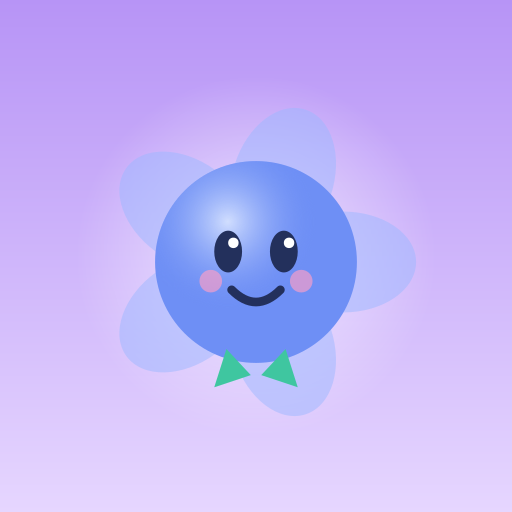
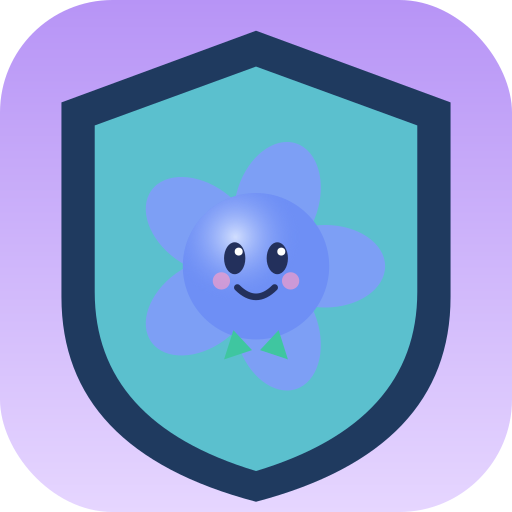
Refine grown-up welcome, split links, demo-vs-app wording, org email

diff --git a/index.html b/index.html
@@ -475,11 +475,11 @@ renderers.disclaimer=()=>{screen.innerHTML=`<div class="pad fade" style="padding
   <div style="text-align:center"><div class="duo">${pip('',96)}</div>
   <div class="step-title" style="font-size:27px;margin-top:8px">Welcome to Brave Battle</div></div>
   <div class="card" style="margin-top:14px">
-    <p style="font-weight:700;line-height:1.5">Brave Battle is a tester app from <b>Brave Kids United</b>, a nonprofit helping kids build confidence and coping skills.</p>
+    <p style="font-weight:700;line-height:1.5">This is a demo of <b>Brave Battle</b>, from Brave Kids United, a nonprofit helping kids build confidence and coping skills.</p>
     <p style="font-weight:800;margin-top:12px">Before you start, please know:</p>
     <p style="line-height:1.6;margin-top:4px">• This app is a support tool — it is not a substitute for therapy or medical care.<br>
     • If your child is in crisis, please call or text <a href="tel:988" style="color:var(--grape);font-weight:800">988</a> (Suicide &amp; Crisis Lifeline).<br>
-    • This is a tester version. We will check in with you for feedback.</p>
+    • This is an early demo, and we’ll check in with you for feedback.</p>
   </div>
   <button class="btn" onclick="acknowledge()">I understand ›</button>
   <button class="btn ghost" onclick="openCrisis()">Crisis Resources</button>
@@ -500,11 +500,11 @@ renderers.crisis=()=>{screen.innerHTML=`${topbar()}<div class="pad fade"><span c
 /* ---- About / Parent Info (reachable from home; ungated) ---- */
 renderers.about=()=>{screen.innerHTML=`${topbar()}<div class="pad fade legal"><span class="step-tag">ABOUT &amp; PARENT INFO 💜</span>
   <div class="step-title">About Brave Battle</div>
-  <div class="card" style="background:linear-gradient(160deg,#f6e9ff,#fff6df)"><h3>Battle Big Feelings, Together</h3>
+  <div class="card" style="background:linear-gradient(160deg,#f6e9ff,#fff6df)"><div style="font-size:11px;font-weight:800;letter-spacing:.12em;color:var(--grape);text-transform:uppercase;margin-bottom:4px">Our Mission Statement</div><h3>Battle Big Feelings, Together</h3>
     <p>Helping children regulate their emotions, build confidence, and find coping skills that work for them — through tools they actually want to use, that capture real data from real moments to inform families, therapists, and kids together. Made accessible to every family who needs it.</p></div>
   <div class="card"><h3>About Brave Battle</h3>
-    <p>Brave Battle is a tester app provided by Brave Kids United Inc, an Indiana nonprofit corporation. It is designed to help children practice coping skills and build confidence when working through everyday emotional challenges such as anxiety and worry.</p>
-    <p style="margin-top:8px">This is an early tester version. The real app, when fully launched, will include personalized features, character design, faith-level options, parent and therapist tools, and much more.</p></div>
+    <p>This is a demo of <b>Brave Battle</b>, provided by Brave Kids United Inc, an Indiana nonprofit corporation. Brave Battle is designed to help children practice coping skills and build confidence when working through everyday emotional challenges such as anxiety and worry.</p>
+    <p style="margin-top:8px">This demo is an early preview. The full Brave Battle app, when it launches, will include personalized features, character design, faith-level options, parent and therapist tools, and much more.</p></div>
   <div class="card"><h3>Important — Not a Substitute for Care</h3>
     <p>Brave Battle is a support tool, not a replacement for professional care. It does not diagnose, treat, or cure any medical or psychological condition.</p>
     <p style="margin-top:8px">This app is not designed for use in crisis situations or for conditions that require professional treatment, including (but not limited to) trauma, eating disorders, severe depression, suicidal thoughts, self-harm, psychosis, or substance abuse. For any of these, please contact a licensed professional immediately.</p>
@@ -512,7 +512,7 @@ renderers.about=()=>{screen.innerHTML=`${topbar()}<div class="pad fade legal"><s
     <p style="margin-top:8px"><b>If your child is in crisis:</b><br>• Call or text <a href="tel:988" style="color:var(--grape);font-weight:800">988</a> (Suicide &amp; Crisis Lifeline)<br>• Text HOME to <a href="sms:741741" style="color:var(--grape);font-weight:800">741741</a> (Crisis Text Line)<br>• Call <a href="tel:911" style="color:var(--grape);font-weight:800">911</a> for emergencies</p></div>
   <div class="card"><h3>Your Data</h3>
     <p>This is a <b>demo (tester) version</b> of Brave Battle, and it is built to keep your child's information on the device.</p>
-    <p style="margin-top:8px">• <b>No server, by design — for this demo.</b> This tester version does not send anything anywhere. There is no account, no login, and no Brave Kids United Inc server collecting information — so nothing your child does in this demo travels back to us. We never receive it, and we can't see it.<br>
+    <p style="margin-top:8px">• <b>No server, by design — for this demo.</b> This demo does not send anything anywhere. There is no account, no login, and no Brave Kids United Inc server collecting information — so nothing your child does in this demo travels back to us. We never receive it, and we can't see it.<br>
     • <b>Saved on this device only.</b> To make the app work, it stores a few things right on the device: their points and rewards, and anything they type in the app (like a gratitude note or a worry they check). This stays on the device and is visible only in the Grown-Ups area on that same device.<br>
     • <b>No personal info requested.</b> No emails, no ages, no contact information.<br>
     • <b>You're in control.</b> To erase everything, tap "Reset all data" in the Grown-Ups section, or clear this app's data from the device.</p>
@@ -520,7 +520,17 @@ renderers.about=()=>{screen.innerHTML=`${topbar()}<div class="pad fade legal"><s
     <p style="margin-top:8px"><b>Looking ahead:</b> the full version of Brave Battle (still in development) is planned to include online features such as saved accounts, personalization, and parent and therapist tools, which will use a server. That future version will come with its own, updated privacy information before it is used — this notice covers the demo only.</p>
     <p style="margin-top:8px">Your feedback comes through talking with us directly, not through the app.</p></div>
   <div class="card"><h3>Contact / Feedback</h3>
-    <p>We'd love to hear from you. Reach Christina at <a href="mailto:[email redacted]" style="color:var(--grape);font-weight:800">[email redacted]</a> with any feedback, questions, or concerns.</p></div>
+    <p>We'd love to hear from you. Reach Christina at <a href="mailto:[email redacted]" style="color:var(--grape);font-weight:800">[email redacted]</a> with any feedback, questions, or concerns.</p></div>
+  <div class="card" style="background:linear-gradient(160deg,#eaf6f8,#fff6df)"><h3>Stay connected 💛</h3>
+    <p>Brave Battle is one small piece of a bigger mission at <b>Brave Kids United Inc</b> — building warm, effective tools for kids working through big feelings.</p>
+    <p style="margin-top:8px">If you'd like to follow along as things develop — new features, the full app, and ways to get involved — we'd love to stay in touch. This is entirely optional, and it happens on our sign-up page, not inside this app.</p>
+    <a href="https://d75f5bf5.sibforms.com/serve/MUIFAFurrO-nDLnu0HvfUQxhFpyN5bpQfaa0rDWL7shGLt0_JJJfXFc63mrpkJJXhxViZmYc90WOvEtjixj10mYGFFzKP0aQm-G_MyKwOsTz6tYnHsu5LdxrgqxBFuYDpXhuPAkYdHAEojfWcPJ8c99RBqpRAUJlbmuSeRBEyL6mlwf3lrwi9SWKq3TWrr5AfGvWuq-5xb3YnTWtGQ==" target="_blank" rel="noopener" style="display:block;text-align:center;background:var(--grape);color:#fff;font-weight:800;padding:13px;border-radius:14px;text-decoration:none;margin-top:12px">✉️ Keep me in the loop</a>
+    <p style="margin-top:14px"><b>Want to get more involved?</b> As a growing nonprofit, we\u2019re building our team — and we\u2019re especially looking for:</p>
+    <p style="margin-top:6px">• <b>Board members</b> — people who believe in the mission and want to help guide and grow the organization.<br>
+    • <b>A clinician advisory board</b> — therapists, counselors, and child mental-health professionals to help shape the tools and keep them clinically sound.</p>
+    <p style="margin-top:8px">Have questions, or want to get involved? Email Christina at <a href="mailto:[email redacted]" style="color:var(--grape);font-weight:800">[email redacted]</a>.</p>
+    <p style="margin-top:12px">Learn more at <b>bravekidsunited.org</b> <span style="color:var(--ink-soft);font-weight:700">(coming soon)</span></p></div>
+
   <div class="card"><h3>Legal</h3>
     <p class="small">© 2026 Brave Kids United Inc — All rights reserved.<br>
     Brave Battle™ is a trademark of Brave Kids United Inc.<br>
@@ -1176,7 +1186,13 @@ renderers.parentHome=()=>{const u=usageCounts();const sec={feelComing:'I feel it
   const sk={};state.log.forEach(e=>{if(e.tool){const n=e.tool;sk[n]=(sk[n]||0)+1;}});const top=Object.entries(sk).sort((a,b)=>b[1]-a[1]).slice(0,5);
   const fmt=t=>{const d=new Date(t);return d.toLocaleDateString(undefined,{month:'short',day:'numeric'})+' '+d.toLocaleTimeString(undefined,{hour:'numeric',minute:'2-digit'});};
   screen.innerHTML=`${topbar()}<div class="pad fade"><span class="step-tag">GROWN-UP ZONE 🔒</span><div class="step-title">This week</div>
-  <div class="card"><p class="skipnote" style="text-align:left;margin:0">All data stays on this device. Nothing is sent anywhere, and your child can\u2019t open this without the PIN.</p></div>
+  <div class="card"><p style="text-align:left;margin:0;font-weight:800;font-size:15px">Welcome to your Grown-Up Zone. 💛</p>
+    <p style="text-align:left;margin-top:8px;font-size:13.5px">Thank you for helping us test this demo of Brave Battle. This is an early look at what the full app will become — part of Brave Kids United\u2019s mission to help kids work through big feelings.</p>
+    <p style="text-align:left;margin-top:8px;font-size:13.5px">Everything here stays on this device. Nothing is sent anywhere, and once you set your PIN, your child can\u2019t get into this section without it.</p>
+    <div style="display:flex;flex-direction:column;gap:8px;margin-top:12px">
+      <a onclick="go('about')" style="display:block;text-align:center;background:var(--lilac);color:var(--grape-deep);font-weight:800;padding:11px;border-radius:12px;cursor:pointer;font-size:14px">🔎 Learn about our mission</a>
+      <a href="https://d75f5bf5.sibforms.com/serve/MUIFAFurrO-nDLnu0HvfUQxhFpyN5bpQfaa0rDWL7shGLt0_JJJfXFc63mrpkJJXhxViZmYc90WOvEtjixj10mYGFFzKP0aQm-G_MyKwOsTz6tYnHsu5LdxrgqxBFuYDpXhuPAkYdHAEojfWcPJ8c99RBqpRAUJlbmuSeRBEyL6mlwf3lrwi9SWKq3TWrr5AfGvWuq-5xb3YnTWtGQ==" target="_blank" rel="noopener" style="display:block;text-align:center;background:var(--lilac);color:var(--grape-deep);font-weight:800;padding:11px;border-radius:12px;text-decoration:none;font-size:14px">✉️ Stay connected — updates as we grow</a>
+    </div></div>
   <div class="statrow"><div class="statcard"><div class="statnum">${u.all}</div><div class="statlbl">MOMENTS</div></div>
     <div class="statcard"><div class="statnum">${u.week}</div><div class="statlbl">THIS WEEK</div></div>
     <div class="statcard"><div class="statnum">${currentStreak()}</div><div class="statlbl">DAY STREAK</div></div></div>